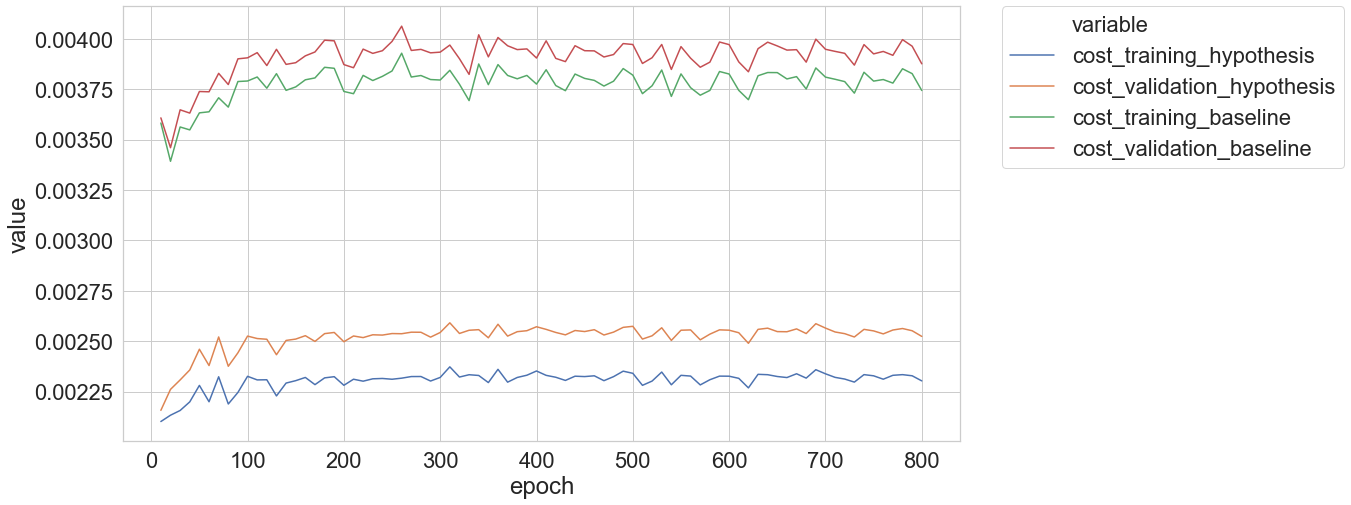
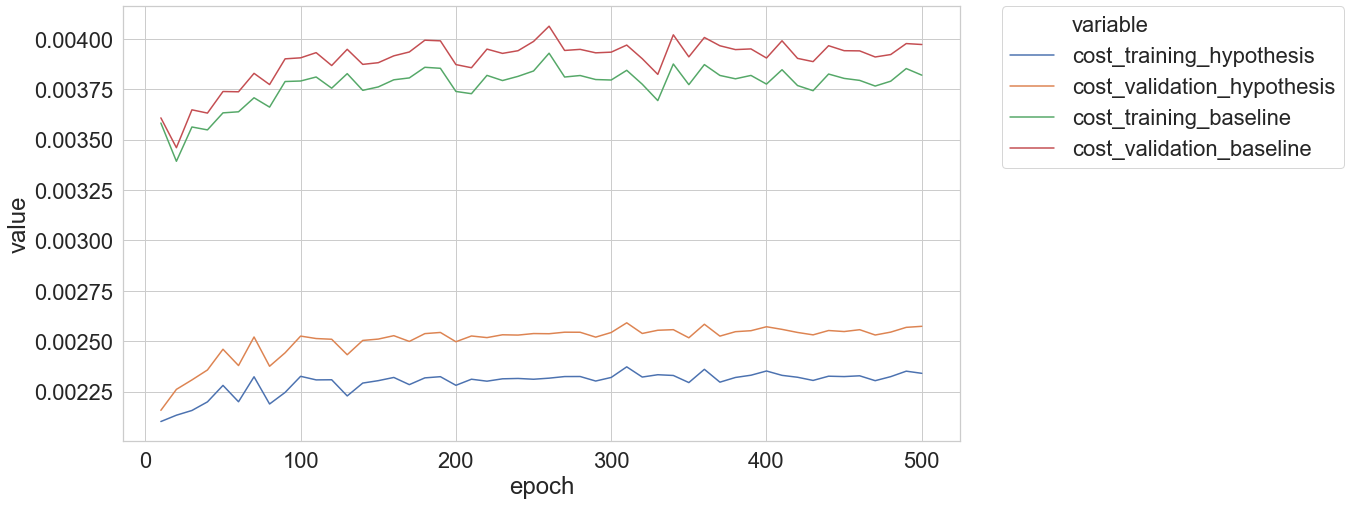
Chapter4 - Review comments 2 - Section4.3
Reduce analysis to 500 epoch.

diff --git a/Chapter4/chapter4.tex b/Chapter4/chapter4.tex
@@ -560,7 +560,7 @@ Optimised NTN training algorithm: \url{https://github.com/xhosaBoy/deep-knowledg
 %********************************** %HypER+  **************************************
 
 \subsection{HypER+}
-HypER predicate filter inputs generated by a hypernetwork may suffer from distribution shift during training. We compensate for this covariate shift by introducing batch normalisation for predicate inputs, and call this model HypER+. The model was trained on Google Cloud Platform, on an N1 series instance with  8 CPU cores, 30GB RAM, 512GB SSD and an Nvidia Tesla P100 GPU. We train the respective models for $ 800 $ epoch, and evaluate the model using the current standard link prediction benchmarks discussed earlier. \par
+HypER predicate filter inputs generated by a hypernetwork may suffer from distribution shift during training. We compensate for this covariate shift by introducing batch normalisation for predicate inputs, and call this model HypER+. The model was trained on Google Cloud Platform, on an N1 series instance with  8 CPU cores, 30GB RAM, 512GB SSD and an Nvidia Tesla P100 GPU. We train the respective models for $ 500 $ epoch, and evaluate them using the standard link prediction benchmarks discussed earlier. \par
 
 \noindent \textbf{Code to reproduce.} In the interest of reproducibility, all code needed to train and test the models in this section can be found at the following links. \newline
 Baseline: \url{https://github.com/xhosaBoy/HypER-baseline} \newline
@@ -682,7 +682,7 @@ HypER+: \url{https://github.com/xhosaBoy/HypER-Regularised-Relations} \par
 		\caption{FB15k}
 	\end{subfigure}
 	\captionsetup{justification=centering}
-	\caption{Mean Reciprocal Rank versus epoch for the respective KG. Here there is no discernible difference in performance on the WN18 KG, however the baseline is once again outperformed by the hypothesis on FB15k. The training set metrics for both models never seem to reach a plateau for the FB15k KG and keep increasing. However there seems to be sufficient regularisation to prevent overfitting, as indicated by the validation metric plateaus.}
+	\caption{Mean Reciprocal Rank versus epoch for the respective KG. Here there is no discernible difference in performance on the WN18 KG, however the baseline is once again outperformed by the hypothesis on FB15k.}
 \end{figure}
 
 %********************************** %Test results **************************************
@@ -988,7 +988,7 @@ HypER+: \url{https://github.com/xhosaBoy/HypER-Regularised-Relations} \par
 
 %********************************** %Pre-Trained Word Embeddings **************************************
 
-\noindent The model was trained on Google Cloud Platform, on an N1 series instance with  8 CPU cores, 30GB RAM, 512GB SSD and an Nvidia Tesla P100 GPU. We evaluate the model using the standard link prediction benchmarks discussed above. \par 
+\noindent The model was trained on Google Cloud Platform, on an N1 series instance with  8 CPU cores, 30GB RAM, 512GB SSD and an Nvidia Tesla P100 GPU. We train the respective models for $ 500 $ epoch, and evaluate them using the standard link prediction benchmarks discussed earlier. \par 
 
 \noindent \textbf{Code to reproduce.} In the interest of reproducibility, all code needed to train and test the models in this section can be found at the following links. \newline
 Baseline: \url{https://github.com/xhosaBoy/HypER-baseline} \newline
